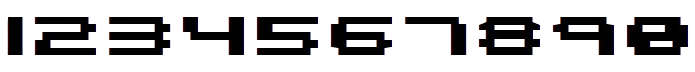
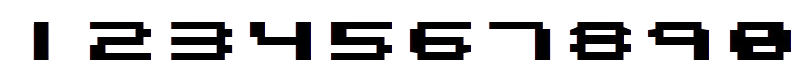
score 간격 설정

Changed region(s): [[0.0, 0.2222, 0.9971, 0.7778]]

diff --git a/TINORUN/TINORUN/ScoreDisplay.cpp b/TINORUN/TINORUN/ScoreDisplay.cpp
@@ -116,15 +116,15 @@ float ScoreDisplay::DrawDigit(int digit, float x, float y, glm::mat4 gProjection
 	// 숫자 배열 순서: 1,2,3,4,5,6,7,8,9,0
 	DigitCoord coords[10] = {
 		{0.90f, 1.00f, 1.0f},  // 0 - 맨 오른쪽
-		{0.02f, 0.03f, 0.2f},  // 1 - 맨 왼쪽, 매우 좁음
-		{0.05f, 0.15f, 1.0f},  // 2
-		{0.15f, 0.25f, 1.0f},  // 3
-		{0.25f, 0.35f, 1.0f},  // 4
-		{0.36f, 0.46f, 1.0f},  // 5
-		{0.46f, 0.56f, 1.0f},  // 6
-		{0.58f, 0.68f, 1.0f},  // 7
-		{0.68f, 0.78f, 1.0f},  // 8
-		{0.78f, 0.88f, 1.0f}   // 9
+		{0.00f, 0.10f, 1.0f},  // 1 - 맨 왼쪽, 매우 좁음
+		{0.10f, 0.20f, 1.0f},  // 2
+		{0.20f, 0.30f, 1.0f},  // 3
+		{0.30f, 0.40f, 1.0f},  // 4
+		{0.40f, 0.50f, 1.0f},  // 5
+		{0.50f, 0.60f, 1.0f},  // 6
+		{0.60f, 0.70f, 1.0f},  // 7
+		{0.70f, 0.80f, 1.0f},  // 8
+		{0.80f, 0.90f, 1.0f}   // 9
 	};
 
 	float texLeft = coords[digit].left;
@@ -182,21 +182,13 @@ void ScoreDisplay::Draw(glm::mat4 gProjection, glm::mat4 gView, GLuint uMVP_loc)
 	// 각 자리수를 그림 (왼쪽에서 오른쪽으로)
 	float startX = position.x;
 	float currentX = startX;
-	float isOne = 0.0f;
 
 
 	for (int i = 0; i < 5; i++) {
 		// 각 숫자를 그리고 실제 사용된 너비를 받아옴
 		float usedWidth = DrawDigit(digits[i], currentX, position.y, gProjection, gView, uMVP_loc);
 		// 다음 숫자 위치 = 현재 위치 + 실제 너비 + 간격
-		if (isOne != 0.0f) {
-			currentX = currentX - isOne;
-		}
-
-		isOne = (digits[i + 1] == 1) ? -0.02 : 0.0f;
-
-		currentX += usedWidth + spacing + isOne;
-
+		currentX += usedWidth + spacing;
 	}
 
 	glBindTexture(GL_TEXTURE_2D, 0);
